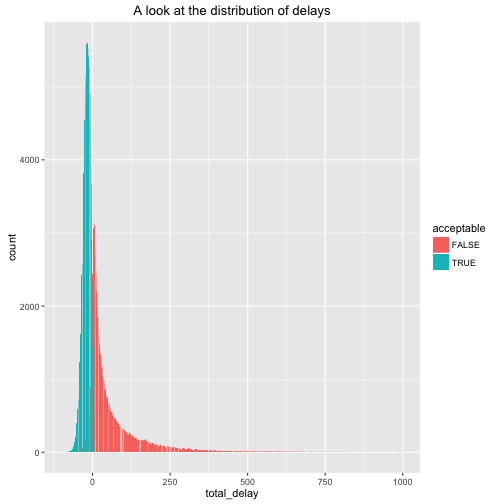
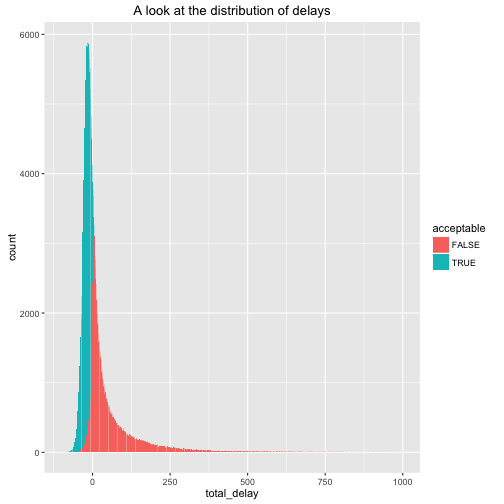
updated

diff --git a/_posts/2016-01-12-dplyr_flights_update.md b/_posts/2016-01-12-dplyr_flights_update.md
@@ -190,6 +190,26 @@ arrange(mean_tot_delay)
 ## 16      FL      -15.52893
 {% endhighlight %}
 
+One last thing we could do is to look at the previous bar graph, and create one that symbolizes what proportion of flights were acceptable in a visual manner, although we can see this from the original, let's just make use of some cool settings in ggplot.
+
+
+{% highlight r %}
+#first we need to create a new variable that indicates whether a flight was
+#indeed an acceptable flight
+temp2 <- mutate(temp, acceptable = (arr_delay<=2 & dep_delay<=2))
+g2<-ggplot(data=temp2)
+g2 + geom_bar(mapping=aes(x=total_delay,fill=acceptable)) + xlim(-100,1000) + labs(title="A look at the distribution of delays")
+{% endhighlight %}
+
+
+{% highlight text %}
+## Warning: Removed 9482 rows containing non-finite values (stat_count).
+{% endhighlight %}
+
+![center](http://yankev.github.io/figs/dplyr_flights/unnamed-chunk-9-1.png)
+
+**Woah**, this is kind of weird, there are some un-acceptable flights with total delays less than 0. But remember the conditions for an acceptable flight were no arrival or departure delays longer than 2 hours; However some of these flights indicate cases where for example, dep_delay = 5, but arr_delay=-10. **phew!**.
+However, now the question is whether our conditions for acceptability are valid, because of their inconsistency with total_delay, but that's a question we'll leave for the moment.
 
 #### In closing
 
